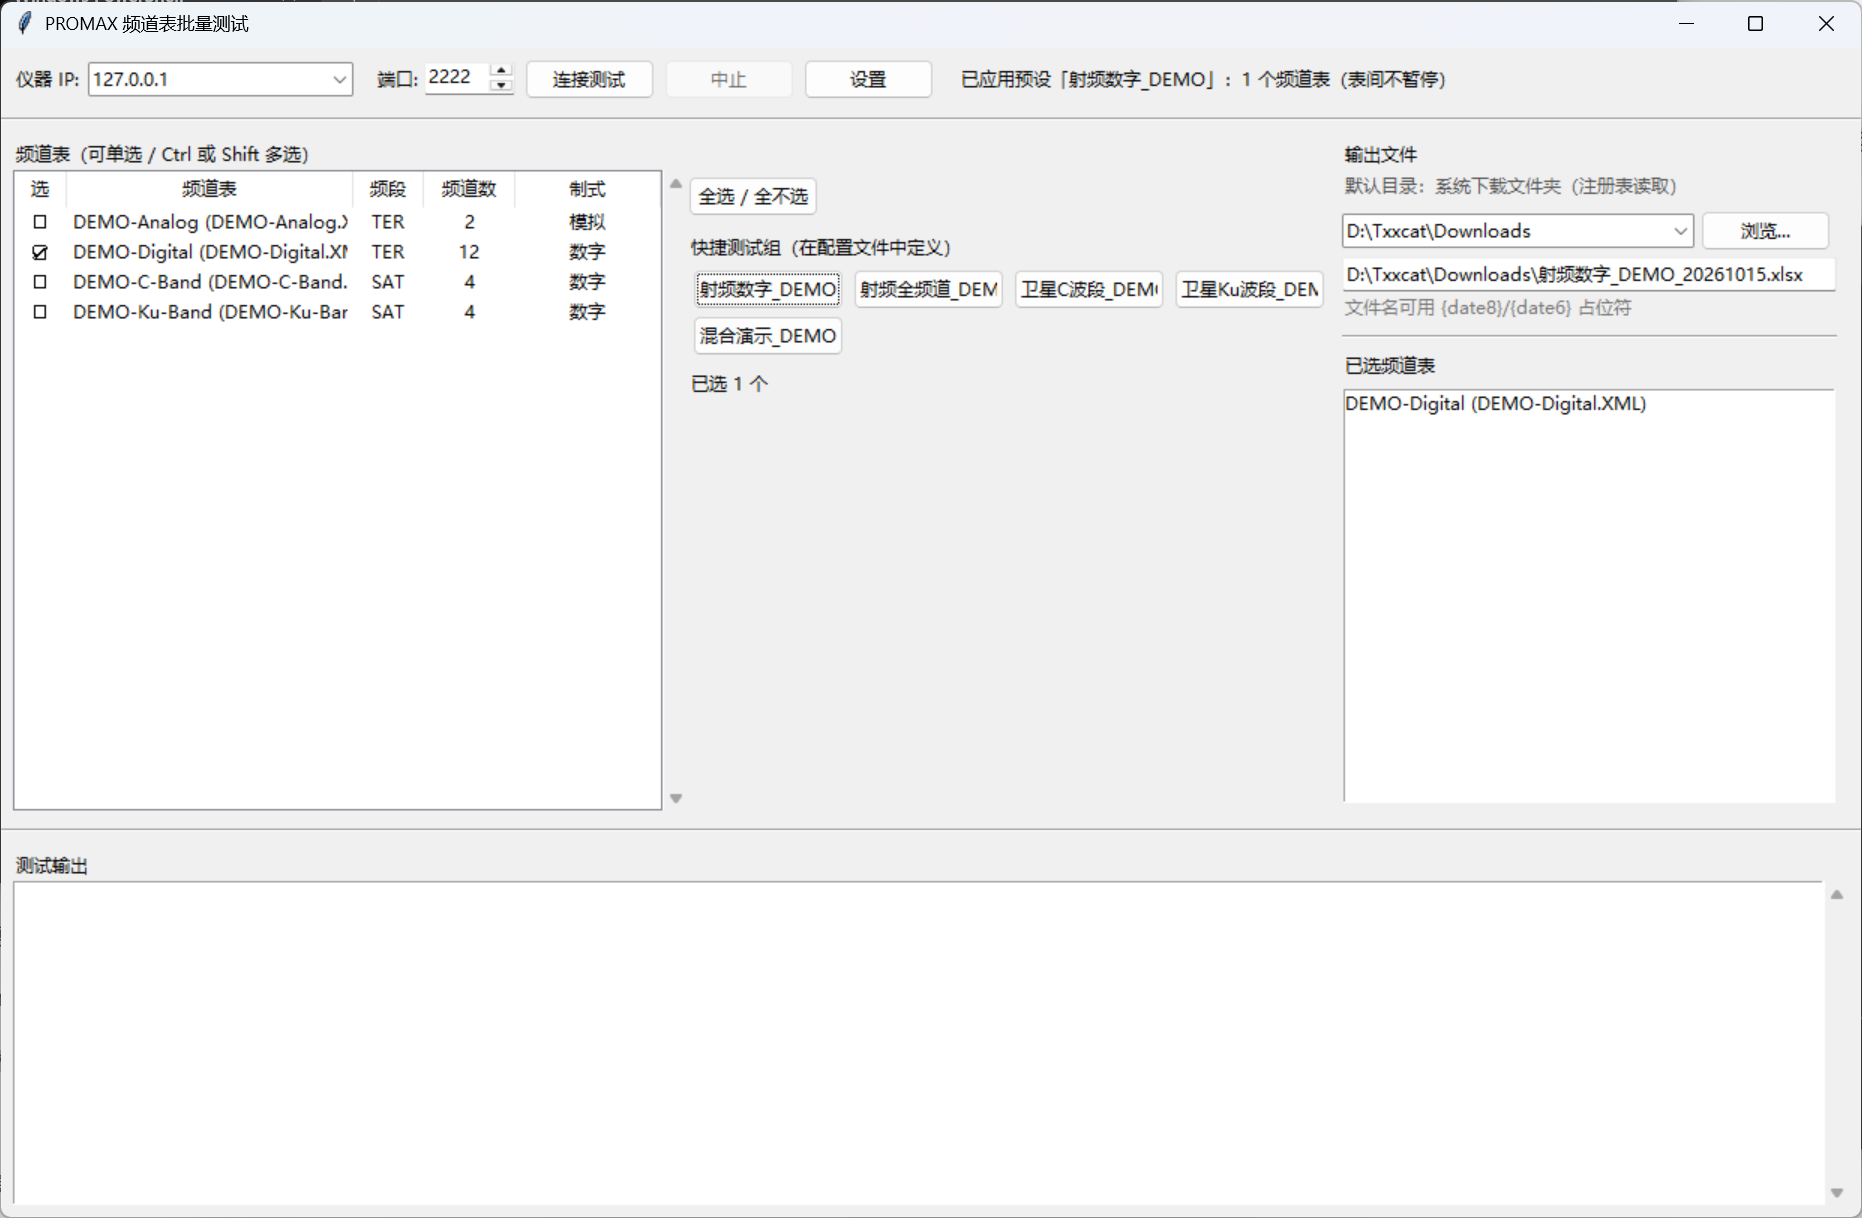
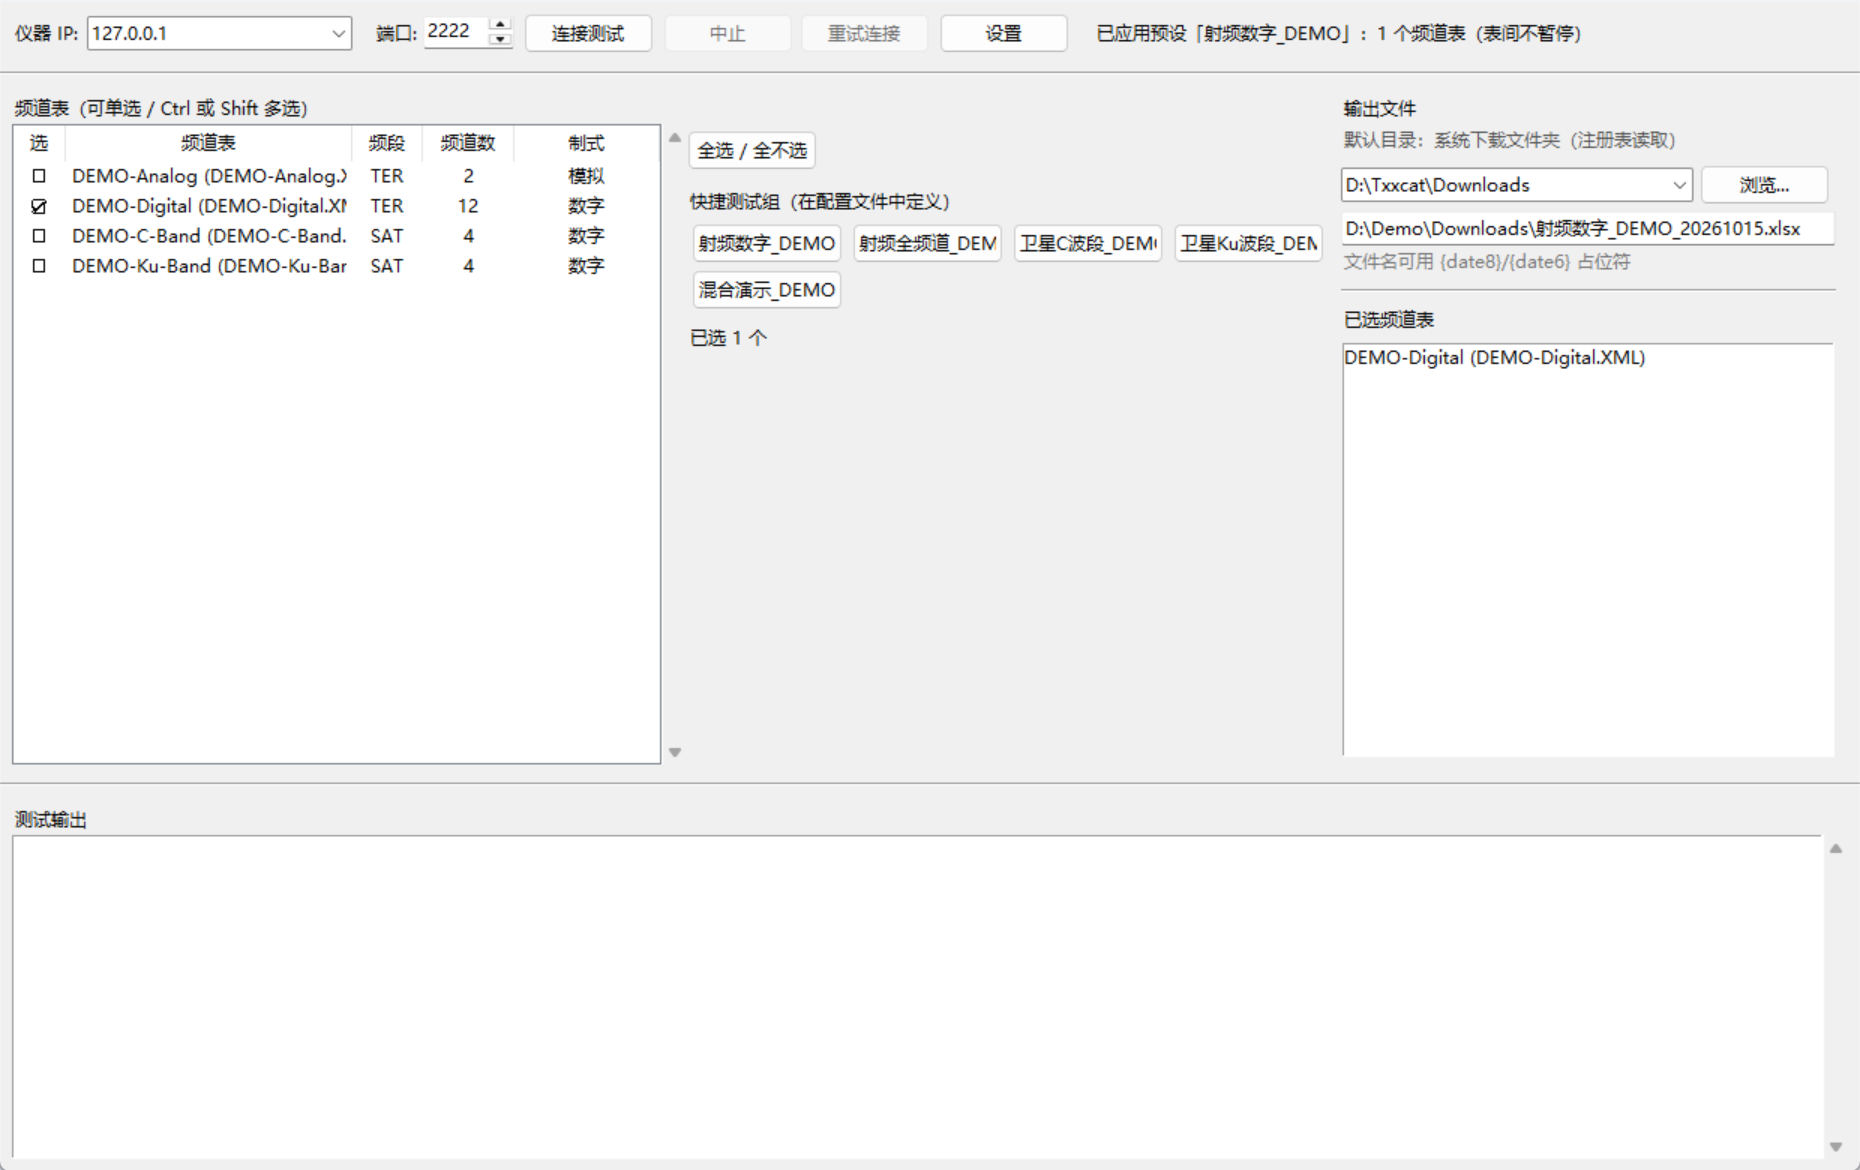
docs: 更新界面截图（含「重试连接」按钮）+ 修截图脚本的泄露风险
截图更新
- 主界面图更新为含新增「重试连接」按钮的版本（作者上传的那张是加按钮之前截的）
- 设置界面图更新为含「断线自动重连」选项、且底部「重试步进」不再被裁的版本
- README 里两张图分成「主界面 / 设置界面」两节，去掉误留的空引用行

⚠ 修截图脚本的**数据泄露风险**（重要）
_shot_settings.py 原来直接扫 CH/ 目录来截图 —— 本地 CH/ 里放着真实频道表
（真实运营商表与卫星表名），虽然被 .gitignore 排除不会进仓库，
但**一旦截进图里就等于公开**。已改成三道防线：
  1. 只扫「把 CH/ 下 DEMO-*.XML 复制到临时目录」的隔离目录
  2. 截图前断言「所有表名都以 DEMO- 开头」，不满足直接报错退出
  3. monkeypatch load_config（原本就有），避免带出真实 IP / 输出目录历史

修截图定位（高 DPI）
- Tk 的 winfo_* 是**逻辑像素**，ImageGrab 按**物理像素**工作。
  本机 150% 缩放（逻辑 2048×1280 / 物理 3072×1920）下，直接用 Tk 坐标抓图
  会整体偏移并把桌面截进来。已按「全屏抓图宽度 ÷ Tk 屏宽」换算。

diff --git a/_shot_settings.py b/_shot_settings.py
@@ -1,16 +1,26 @@
 # -*- coding: utf-8 -*-
-"""生成 docs/screenshot-settings.png —— 用**演示配置**（不含真实 IP / 输出目录）。
+"""生成 README 用的两张界面截图（**全部用演示数据**，不含真实 IP / 频道表 / 输出目录）。
 
-🔴 必须 monkeypatch load_config：设置窗会从磁盘读 plan_scan_gui.json，
-   那里面有真实仪器 IP 与输出目录历史，不拦就会把它们截进图里。
+  docs/pmcontorl_main.png         主界面（已应用演示预设）
+  docs/screenshot-settings.png    设置界面
+
+🔴 两道防线，缺一不可：
+  1. monkeypatch load_config —— 界面会自己从磁盘读 plan_scan_gui.json，
+     那里面有**真实仪器 IP** 与真实输出目录历史。
+  2. 扫描**只含 DEMO-* 演示表的临时目录** —— 直接扫 CH/ 会把本地真实频道表
+     （真实运营商表 / 真实卫星表名）列进界面并截进图里。
+     真实表虽被 .gitignore 排除，**截图一公开就等于泄露**。（踩过）
+  另外还有第 3 道：截主界面前断言「所有表名都以 DEMO- 开头」，不满足直接报错退出。
 """
 import os
+import shutil
 import sys
+import tempfile
 import time
 
 sys.path.insert(0, os.path.dirname(os.path.abspath(__file__)))
-import tkinter as tk                                    # noqa: E402
-import promax_plan_gui as gui                            # noqa: E402
+import tkinter as tk                                     # noqa: E402
+import promax_plan_gui as gui                             # noqa: E402
 
 HERE = os.path.dirname(os.path.abspath(__file__))
 
@@ -45,40 +55,110 @@ DEMO = {
     ],
 }
 
-# 关键：拦掉磁盘读取
+# 防线 1：拦掉磁盘配置
 gui.load_config = lambda *a, **k: dict(DEMO)
 
-root = tk.Tk()
-app = gui.App(root, os.path.join(HERE, "CH"))
-root.update()
-app._open_settings()
 
-# 多轮 update + sleep，让 notebook / 输入框把值渲染完
-# （踩过：只 update 一次会抓到空白控件；那是时序问题，不是程序 bug）
-for _ in range(40):
-    root.update()
-    time.sleep(0.05)
+def demo_only_dir():
+    """把 CH/{TER,SAT} 里的 **DEMO-* 演示表**复制到一个临时目录，只扫它。
 
-win = None
-for w in root.winfo_children():
-    if isinstance(w, tk.Toplevel):
-        win = w
-if win is None:
-    print("!! 没找到设置窗")
-    sys.exit(1)
+    这样界面里只会出现演示表，不会把本地真实频道表名截进图里。
+    """
+    tmp = tempfile.mkdtemp(prefix="pmcontorl_shot_")
+    for band in ("TER", "SAT"):
+        src = os.path.join(HERE, "CH", band)
+        dst = os.path.join(tmp, band)
+        os.makedirs(dst, exist_ok=True)
+        if not os.path.isdir(src):
+            continue
+        for f in os.listdir(src):
+            if f.startswith("DEMO-"):
+                shutil.copy2(os.path.join(src, f), os.path.join(dst, f))
+    return tmp
 
-win.update_idletasks()
-win.update()
-time.sleep(0.8)
-for _ in range(30):
-    root.update()
-    time.sleep(0.05)
 
-from PIL import ImageGrab                                 # noqa: E402
-x, y = win.winfo_rootx(), win.winfo_rooty()
-w, h = win.winfo_width(), win.winfo_height()
-img = ImageGrab.grab(bbox=(x, y, x + w, y + h))
-out = os.path.join(HERE, "docs", "screenshot-settings.png")
-img.save(out)
-print("saved %s  %s" % (out, img.size))
-root.destroy()
+def settle(root, n=30, delay=0.05):
+    """多轮 update + sleep 让控件渲染完。
+
+    ⚠ 只 update 一次会抓到空白控件（输入框还没填值）—— 那是**时序**问题，
+    不是程序 bug；值一直在，多转几轮就稳定了。
+    """
+    for _ in range(n):
+        root.update()
+        time.sleep(delay)
+
+
+_SCALE = [None]
+
+
+def screen_scale(root):
+    """Tk 坐标 → 物理像素的缩放系数。
+
+    ⚠ Tk 的 winfo_* 返回**逻辑像素**，ImageGrab 按**物理像素**工作。
+    本机 150% 缩放（逻辑 2048×1280 / 物理 3072×1920）时，
+    直接拿 Tk 坐标去 grab 会整体偏移、把桌面截进来（踩过）。
+    用「全屏抓图宽度 ÷ Tk 报告的屏宽」拿到真实比例。
+    """
+    if _SCALE[0] is None:
+        from PIL import ImageGrab
+        _SCALE[0] = ImageGrab.grab().size[0] / float(root.winfo_screenwidth())
+        print("屏幕缩放系数：%.3f" % _SCALE[0])
+    return _SCALE[0]
+
+
+def grab(win, rel, root):
+    from PIL import ImageGrab
+    win.update_idletasks()
+    win.update()
+    time.sleep(0.6)
+    s = screen_scale(root)
+    x = int(win.winfo_rootx() * s)
+    y = int(win.winfo_rooty() * s)
+    w = int(win.winfo_width() * s)
+    h = int(win.winfo_height() * s)
+    img = ImageGrab.grab(bbox=(x, y, x + w, y + h))
+    out = os.path.join(HERE, rel)
+    img.save(out)
+    print("saved %s  %s  (bbox=%d,%d,%dx%d)" % (out, img.size, x, y, w, h))
+
+
+demo_dir = demo_only_dir()
+try:
+    root = tk.Tk()
+    app = gui.App(root, demo_dir)
+    settle(root)
+
+    # 防线 3：真要截图了，先确认扫描结果全是演示表
+    files = [it.file for it in app.items]
+    bad = [f for f in files if not f.startswith("DEMO-")]
+    if bad:
+        root.destroy()
+        raise SystemExit("!! 扫描到非演示表，拒绝截图（会泄露真实数据）：%s" % bad)
+    if not files:
+        root.destroy()
+        raise SystemExit("!! 没扫到任何演示表，检查 CH/ 下有没有 DEMO-*.XML")
+    print("扫描到的表：%s" % ", ".join(files))
+
+    # ---- 1) 主界面：应用一个演示预设，让界面有内容 ----
+    app._apply_preset(app.cfg["presets"][0])
+    # 输出路径用中性演示值（别把本机用户名 / 下载目录截进去）
+    app.out_var.set(r"D:\Demo\Downloads\射频数字_DEMO_20261015.xlsx")
+    settle(root, 40)
+    grab(root, os.path.join("docs", "pmcontorl_main.png"), root)
+
+    # ---- 2) 设置界面 ----
+    app._open_settings()
+    settle(root, 40)
+
+    win = None
+    for w in root.winfo_children():
+        if isinstance(w, tk.Toplevel):
+            win = w
+    if win is None:
+        root.destroy()
+        raise SystemExit("!! 没找到设置窗")
+    grab(win, os.path.join("docs", "screenshot-settings.png"), root)
+
+    root.destroy()
+finally:
+    shutil.rmtree(demo_dir, ignore_errors=True)

diff --git a/README.md b/README.md
@@ -5,8 +5,13 @@
 
 > **目标仪器**：RANGERNeo 4 — High class field strength meter and spectrum analyzer with 4K decoder
 > （固件 `*VER 31.17`，Telnet 端口 `2222`）
+
+**主界面**
+
 ![主界面](docs/pmcontorl_main.png)
-> 
+
+**设置界面**
+
 ![设置界面](docs/screenshot-settings.png)
 
 ---
